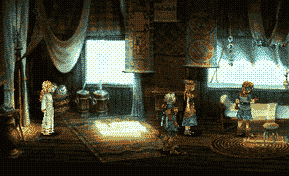
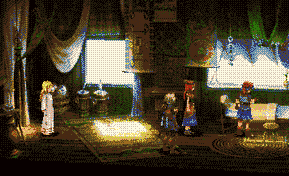
You can now specify an arbitrary palette.  Some refactoring as well.

diff --git a/dither.py b/dither.py
@@ -3,11 +3,26 @@ from PIL import Image, ImageDraw
 from sklearn.cluster import KMeans
 from scipy import spatial
 from skimage import io, color
+import numpy as np
 
 thresholdMap = {
-    2: [[0, 3], [2, 1]],
-    3: [[0, 6, 4], [7, 5, 1], [3, 2, 8]],
-    4: [[0, 12, 3, 15], [8, 4, 11, 7], [2, 14, 1, 13], [10, 6, 9, 5]]
+    2: [[0, 3],
+        [2, 1]],
+    3: [[0, 6, 4],
+        [7, 5, 1],
+        [3, 2, 8]],
+    4: [[ 0, 12,  3, 15],
+        [ 8,  4, 11,  7],
+        [ 2, 14,  1, 13],
+        [10,  6,  9,  5]],
+    8: [[ 0, 48, 12, 60,  3, 51, 15, 63],
+        [32, 16, 44, 28, 35, 19, 47, 31],
+        [ 8, 56,  4, 52, 11, 59,  7, 55],
+        [40, 24, 36, 20, 43, 27, 39, 23],
+        [ 2, 50, 14, 62,  1, 49, 13, 61],
+        [34, 18, 46, 30, 33, 17, 45, 29],
+        [10, 58,  6, 54,  9, 57,  5, 53],
+        [42, 26, 38, 22, 41, 25, 37, 21]],
 }
 
 def bwDither(image, outname, size=4):
@@ -52,43 +67,38 @@ def nearestColour(colour, palette):
 
     return toCol(closestColour)
 
-paletteKDTree = None
-
-def nearestTwo(colour):
-    dist, i = paletteKDTree.query(colour, 2)
-    return toCol(paletteKDTree.data[i[0]]), dist[0], toCol(paletteKDTree.data[i[1]]), dist[1]
+def nearestTwo(palette, colour):
+    dist, i = palette.query(colour, 2)
+    return toCol(palette.data[i[0]]), dist[0], toCol(palette.data[i[1]]), dist[1]
 
 def colourDist(colour1, colour2):
     r1, g1, b1 = colour1
     r2, g2, b2 = colour2
     return ((r2-r1)**2 + (g2-g1)**2 + (b2-b1)**2)
 
+def makePalette(colours):
+    print(colours)
+    return spatial.KDTree(colours)
+
 def findPalette(image, nColours):
     data = image.ravel().reshape(-1, 3)
-    palette = KMeans(n_clusters=nColours, random_state=0, tol=.01).fit(data)
-    print(palette.cluster_centers_)
+    colours = KMeans(n_clusters=nColours, random_state=0, tol=.01).fit(data)
 
-    global paletteKDTree
-    paletteKDTree = spatial.KDTree(palette.cluster_centers_)
-
-    return palette
+    return makePalette(colours.cluster_centers_)
 
 def toCol(list):
     return [int(x) for x in list]
 
-def savePalette(palette, outname):
+def savePalette(colours, fname):
     panelSize = 25
-    nColours = len(palette.cluster_centers_)
+    nColours = len(colours)
     paletteImage = Image.new('RGB', (panelSize * nColours, panelSize))
     draw = ImageDraw.Draw(paletteImage)
-    for i, colour in enumerate(palette.cluster_centers_):
-        draw.rectangle([panelSize * i, 0, panelSize * (i + 1), panelSize], toCol(colour))
-    paletteImage.save(outname + '-' + str(nColours) + 'c-palette.png')
+    for i, colour in enumerate(colours):
+        draw.rectangle([panelSize * i, 0, panelSize * (i + 1), panelSize], tuple(toCol(colour)))
+    paletteImage.save(fname + '-palette.png')
 
-def colourReduce(image, fname, nColours=8):
-    palette = findPalette(image, nColours)
-    # savePalette(palette)
-
+def colourReduce(image, palette, fname):
     width, height, channels = image.shape
     for x in range(0, width):
         for y in range(0, height):
@@ -97,49 +107,69 @@ def colourReduce(image, fname, nColours=8):
 
             image[x][y] = nearest
 
-    return fname + '-' + str(nColours) + 'c-r.png'
+    return fname + '-r.png'
 
-def colourDither(image, fname, nColours=8, size=4):
+def colourDither(image, palette, fname, size=4):
     threshold = thresholdMap[size]
-
-    palette = findPalette(image, nColours)
-    # savePalette(palette, outname)
 
     width, height, channels = image.shape
     for x in range(width):
         for y in range(height):
             colour = image[x][y]
 
-            colour1, dist1, colour2, dist2 = nearestTwo(colour)
+            colour1, dist1, colour2, dist2 = nearestTwo(palette, colour)
             percentage = dist2 / (dist1 + dist2)
             bracket = round(percentage * size**2)
 
             image[x][y] = colour1 if bracket > threshold[x % size][y % size] + 0.5 else colour2
 
-    return fname + '-' + str(nColours) + 'c' + '-' + str(size) + 'x' + str(size) + '.png'
+    return fname + '-' + str(size) + 'x' + str(size) + '.png'
+
+def hexToRGB(hexes):
+    return [[c for c in bytes.fromhex(hex)] for hex in hexes]
 
 def main():
-    nColours = 16
-    size = 4
-    infile = 'chrono-cross.png'
-    file, ext = os.path.splitext(infile)
-    lab = True
+    nColours = 8
+    size = 8
+    infile = 'originals/lenna.png'
+    basename = os.path.basename(infile)
+    fname, ext = os.path.splitext(basename)
+    lab = False
+    manualPalette = False
 
-    image = io.imread('originals/' + infile)
+    image = io.imread(infile)
     if lab:
         image = color.rgb2lab(image)
 
-    fname = 'dithered/' + file
-    if (lab):
-        fname += '-l'
+    colours = None
+    if manualPalette:
+        chrono = ['080000', '201A0B', '432817', '492910',
+                  '234309', '5D4F1E', '9C6B20', 'A9220F',
+                  '2B347C', '2B7409', 'D0CA40', 'E8A077',
+                  '6A94AB', 'D5C4B3', 'FCE76E', 'FCFAE2']
+        colours = hexToRGB(chrono)
+        if (lab):
+            labColours = color.rgb2lab(np.array([colours], dtype=np.uint8))[0]
+            palette = makePalette(labColours)
+        else:
+            palette = makePalette(colours)
+    else:
+        palette = findPalette(image, nColours)
+        colours = palette.data
 
-    # fname = colourReduce(image, fname, nColours)
-    fname = colourDither(image, fname, nColours, size)
+    fname += '-' + str(len(colours)) + 'c'
+    if lab:
+        fname += '-L'
+
+    savePalette(colours, 'palettes/' + fname)
+
+    # fname = colourReduce(image, fname)
+    fname = colourDither(image, palette, fname, size)
 
     if lab:
         image = color.lab2rgb(image)
 
-    io.imsave(fname, image)
+    io.imsave('dithered/' + fname, image)
 
     print(fname + " saved!")
 
